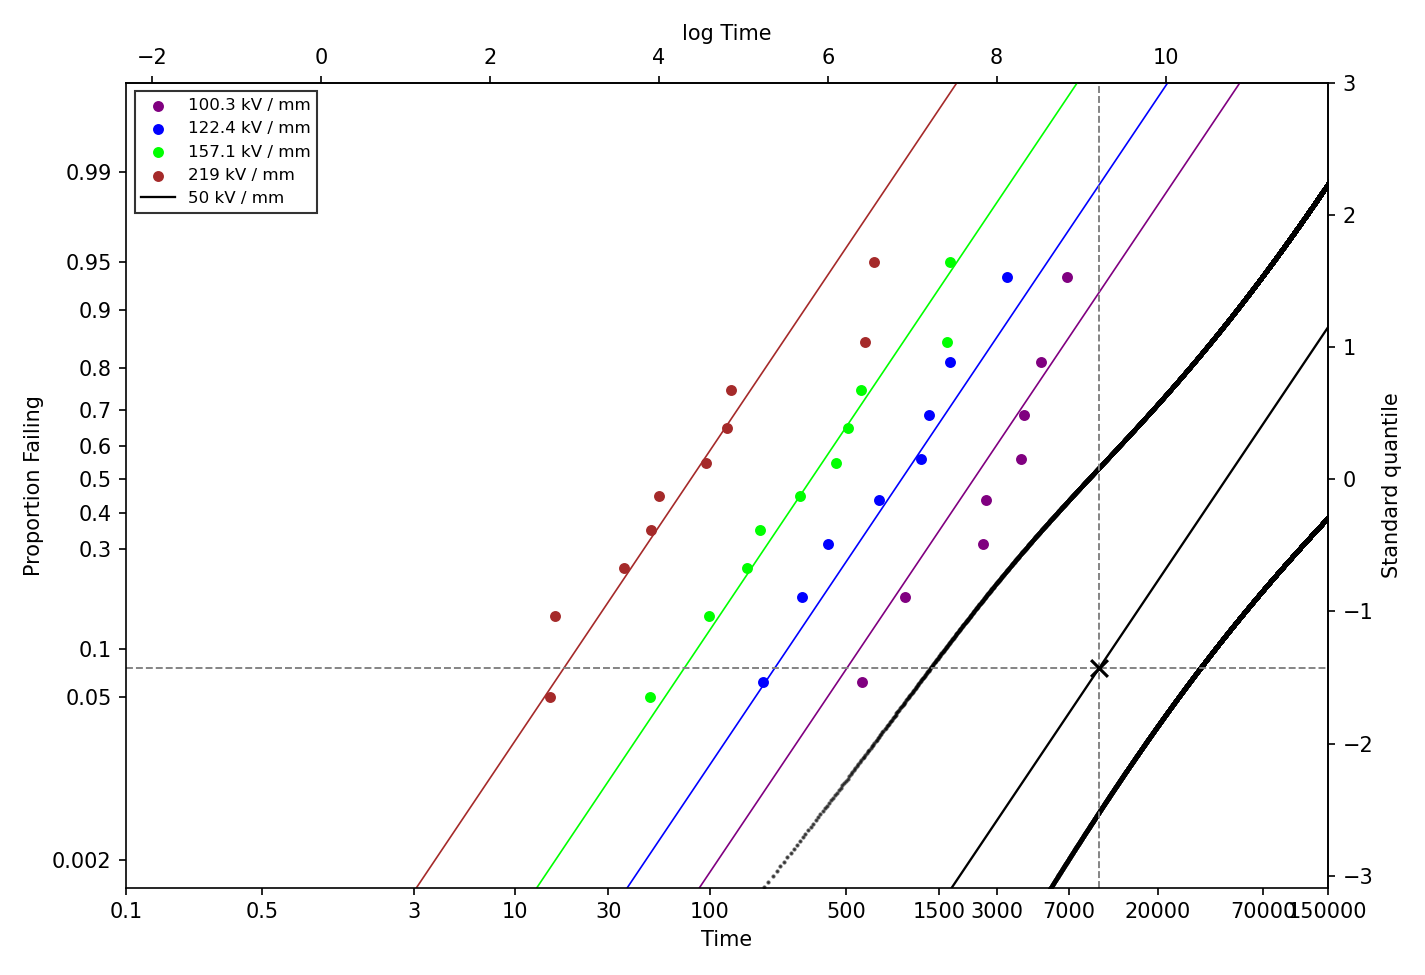
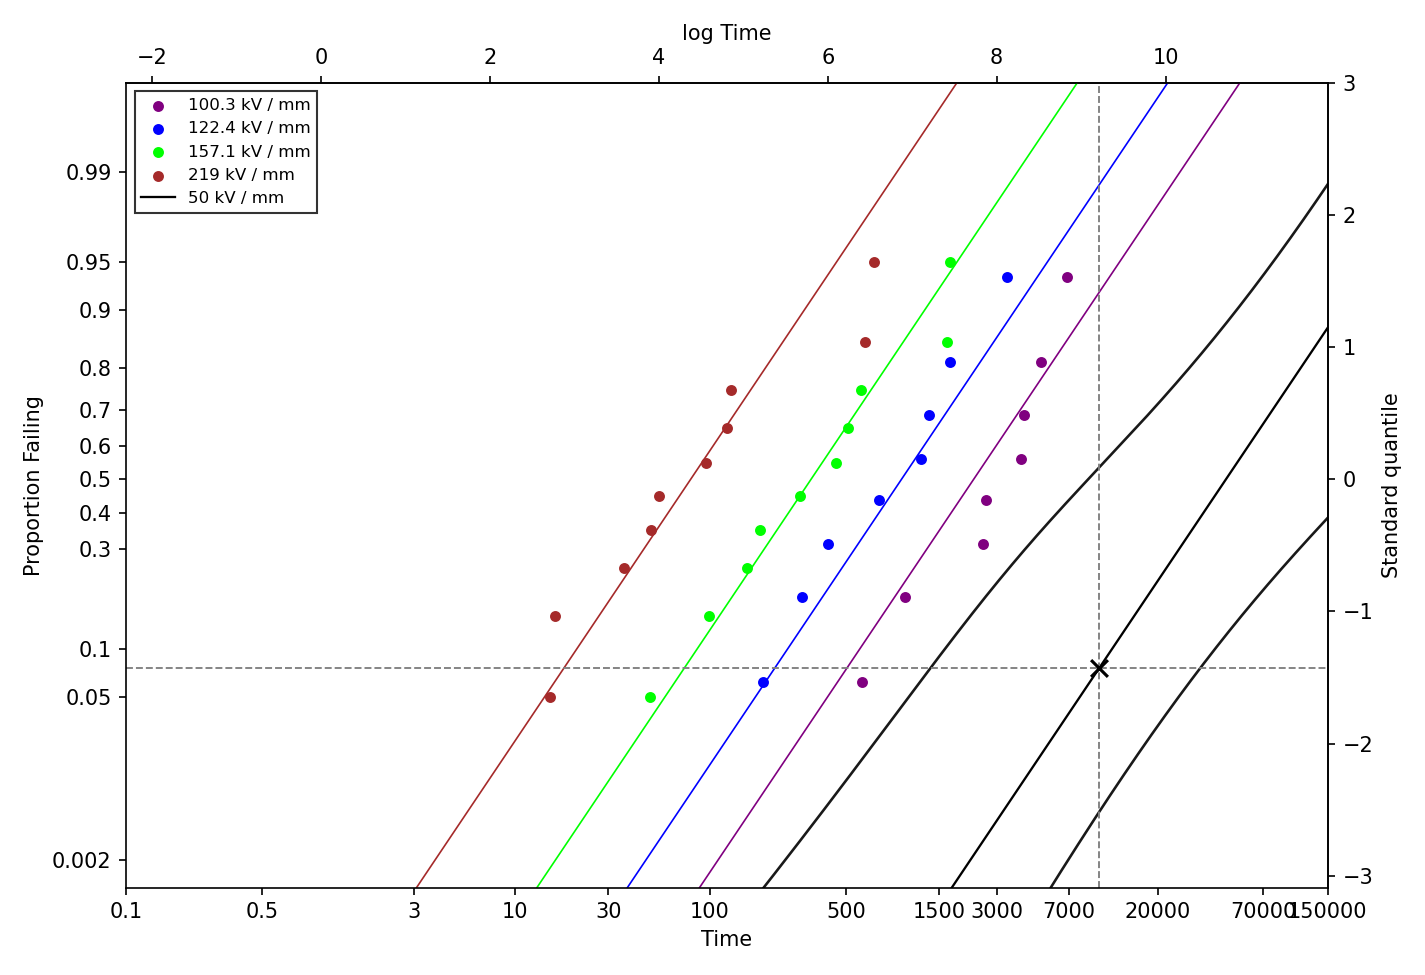
fig fix

diff --git a/src/r_style_visualizations.py b/src/r_style_visualizations.py
@@ -18,7 +18,10 @@ import pandas as pd
 import matplotlib.pyplot as plt
 from scipy import stats
 
-from src.inverse_power_law import failure_probability_confidence_band, predict_failure_probability
+from src.inverse_power_law import (
+    failure_probability_confidence_band,
+    predict_failure_probability,
+)
 
 
 R_COLORS = {
@@ -362,10 +365,28 @@ def plot_06_probability_plot_inverse_power_with_50kv_ci(
         label=f"{prediction_voltage:g} kV / mm",
     )
 
-    time_grid = np.arange(time_grid_start, time_grid_end + 10, 10, dtype=float)
+    # Use a geometric grid because the x-axis is log(time).  A fixed increment
+    # in raw time produces visibly sparse points in the lower-time region and
+    # unnecessarily dense points in the upper-time region.
+    time_grid = np.geomspace(time_grid_start, time_grid_end, 3000, dtype=float)
     band = failure_probability_confidence_band(inverse_summary, prediction_voltage, time_grid)
-    ax.scatter(np.log(band["time"]), band["lower_95_quantile"], color="black", s=1, alpha=0.6)
-    ax.scatter(np.log(band["time"]), band["upper_95_quantile"], color="black", s=1, alpha=0.6)
+
+    # Continuous lines communicate a confidence band more clearly than a cloud
+    # of tiny points and remain smooth across the full probability scale.
+    ax.plot(
+        np.log(band["time"]),
+        band["lower_95_quantile"],
+        color="black",
+        linewidth=1.25,
+        alpha=0.9,
+    )
+    ax.plot(
+        np.log(band["time"]),
+        band["upper_95_quantile"],
+        color="black",
+        linewidth=1.25,
+        alpha=0.9,
+    )
 
     f_marker = predict_failure_probability(inverse_summary, prediction_voltage, marker_time)
     q_marker = stats.norm.ppf(f_marker)